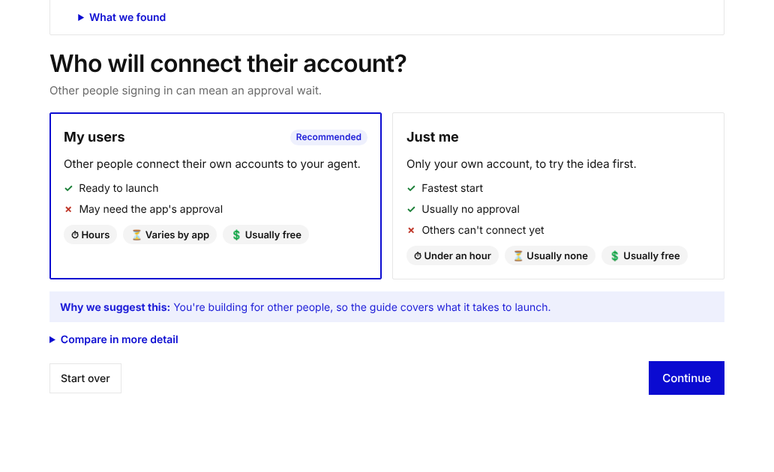
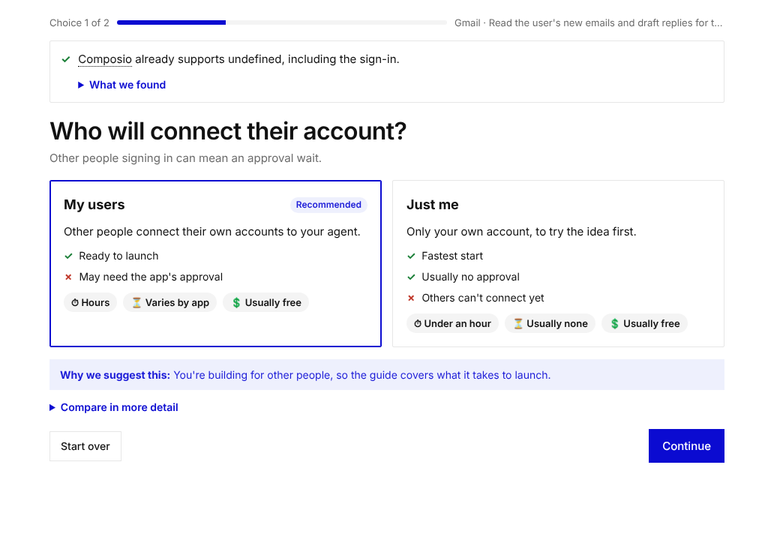
Walk through the app from typing the app and job
The walkthrough now starts at the form with Gmail, goes through the
questions and plan, then the guide, stage chat and evidence.

Claude-Session: https://claude.ai/code/session_014x1YRpSyzZvdmoWobFpAbr

diff --git a/README.md b/README.md
@@ -15,47 +15,53 @@ Builders want their agent to do a job in someone's Notion, Gmail or HubSpot. To 
 
 ## Walkthrough
 
-### 1. Pick an app
+This example follows a builder who wants their agent to handle Gmail for their users.
 
-Open one of six ready-made guides, or type any app and what your agent should do with it. Each card shows the difficulty, your time and any approval wait up front.
+### 1. Say what your agent should do
 
-![Home page with the app form and ready-made guides](docs/screenshots/1-home.png)
+Type the app and the job. No OAuth knowledge needed.
 
-### 2. Answer two questions
+![App: Gmail. Job: read new emails and draft replies](docs/screenshots/1-home.png)
 
-The app first works out what your agent needs to do in that app. Then it asks only what changes the setup. First: who will connect their account?
+### 2. Answer a few questions
+
+The app works out what the agent needs to do in Gmail, then asks only what changes the setup. First: who will connect their account?
 
 ![Choice: my users or just me](docs/screenshots/2-who-connects.png)
 
-Second: how should your agent connect? When Composio supports the app, it's recommended. The do-it-yourself route is shown honestly beside it.
+Next: how should your agent connect? Composio is recommended because users sign in through its already-approved Gmail app, with no review. Building your own app means Google verification, 2 to 6 weeks. Here the builder picks their own app, to see the full path.
 
-![Choice: use Composio or connect it yourself](docs/screenshots/3-how-to-connect.png)
+![Choice: Composio (recommended) or your own app](docs/screenshots/3-how-to-connect.png)
+
+A summary shows the plan before anything is built. Every choice can still be changed.
+
+![The plan: your time, waiting and cost](docs/screenshots/4-plan.png)
 
 ### 3. See what you're in for
 
 The guide opens with four facts: difficulty, your time, the wait, and the biggest blocker. Each one comes with the reason behind it.
 
-![Guide summary for Notion](docs/screenshots/4-guide-summary.png)
+![Gmail guide: Hard, 2-6 week wait, Google verification is the blocker](docs/screenshots/5-guide-summary.png)
 
 ### 4. See who does what
 
-Every step is marked **You** (clicks in a website) or **Your agent** (code, with a prompt ready to paste into your coding agent). Every claim is labelled verified, inferred or unknown.
+Every step is marked **You** (clicks in a website), **Your agent** (code, with a prompt ready to paste into your coding agent), or a wait on the provider. Every claim is labelled verified, inferred or unknown.
 
-![Guide steps split between you and your agent](docs/screenshots/5-guide-steps.png)
+![Steps split between you, your agent and Google's review](docs/screenshots/6-guide-steps.png)
 
 ### 5. Set it up, one stage at a time
 
-Press Start, and each stage becomes a short chat. Tell it what you see, paste an error, or drop a screenshot. It moves on only when that stage is really done. Stages: register the app, callback and permissions, keys, add sign-in to the agent, connect, do the job, and approval if needed.
+Press Start, and each stage becomes a short chat. Tell it what you see, paste an error, or drop a screenshot. It moves on only when that stage is really done.
 
-![Stage chat for registering the Notion app](docs/screenshots/6-stage-chat.png)
+![Stage chat for registering the Gmail app](docs/screenshots/7-stage-chat.png)
 
-_This screenshot was taken in demo mode, so the answer is canned. With a key, the chat answers from live research._
+_Screenshots were taken from the saved Gmail guide in demo mode, so this chat answer is canned. With a key, the chat answers from live research._
 
 ### 6. Check what we tested
 
-One page shows what we tried by hand, which claims we checked against official docs, what the research got wrong, and what's still uncertain.
+Each library app shows which claims we checked against the provider's official docs, and what's still uncertain.
 
-![What we tested page](docs/screenshots/7-what-we-tested.png)
+![Gmail claims checked against Google's docs](docs/screenshots/8-what-we-tested.png)
 
 ---
 
